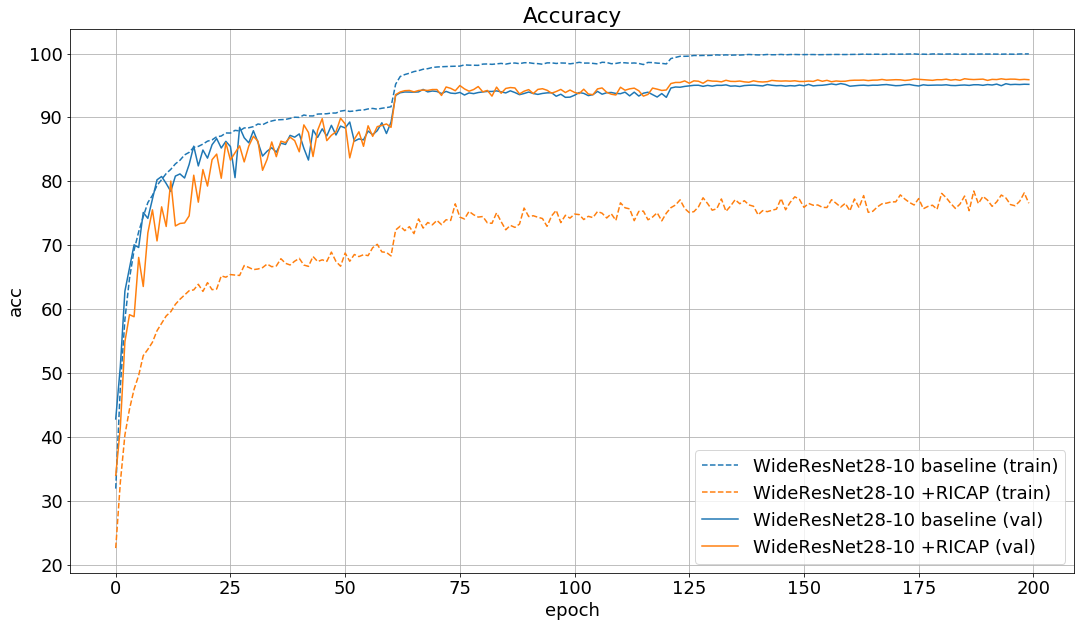
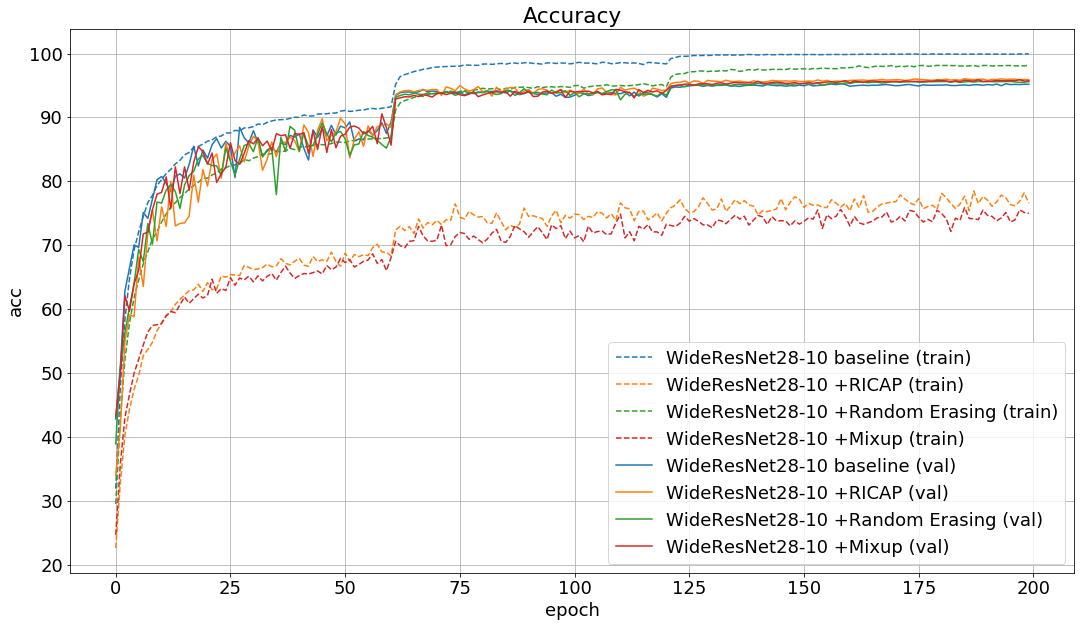
add Random Erasing and Mixup

diff --git a/train.py b/train.py
@@ -25,11 +25,20 @@ def parse_args():
     parser.add_argument('--dataset', default='cifar10',
                         choices=['cifar10', 'cifar100'],
                         help='dataset name')
-    parser.add_argument('--ricap', default=False, type=str2bool,
-                        help='use RICAP')
-    parser.add_argument('--beta', default=0.3, type=float)
     parser.add_argument('--depth', default=28, type=int)
     parser.add_argument('--width', default=10, type=int)
+    parser.add_argument('--ricap', default=False, type=str2bool,
+                        help='use RICAP')
+    parser.add_argument('--ricap-beta', default=0.3, type=float)
+    parser.add_argument('--random-erase', default=False, type=str2bool,
+                        help='use Random Erasing')
+    parser.add_argument('--random-erase-prob', default=0.5, type=float)
+    parser.add_argument('--random-erase-sl', default=0.02, type=float)
+    parser.add_argument('--random-erase-sh', default=0.4, type=float)
+    parser.add_argument('--random-erase-r', default=0.3, type=float)
+    parser.add_argument('--mixup', default=False, type=str2bool,
+                        help='use Mixup')
+    parser.add_argument('--mixup-alpha', default=1.0, type=float)
 
     args = parser.parse_args()
 
@@ -47,8 +56,8 @@ def train(args, train_loader, model, criterion, optimizer, epoch, scheduler=None
         if args.ricap:
             I_x, I_y = input.size()[2:]
 
-            w = int(np.round(I_x * np.random.beta(args.beta, args.beta)))
-            h = int(np.round(I_y * np.random.beta(args.beta, args.beta)))
+            w = int(np.round(I_x * np.random.beta(args.ricap_beta, args.ricap_beta)))
+            h = int(np.round(I_y * np.random.beta(args.ricap_beta, args.ricap_beta)))
             w_ = [w, I_x - w, w, I_x - w]
             h_ = [h, h, I_y - h, I_y - h]
 
@@ -72,7 +81,25 @@ def train(args, train_loader, model, criterion, optimizer, epoch, scheduler=None
             output = model(patched_images)
             loss = sum([W_[k] * criterion(output, c_[k]) for k in range(4)])
 
-            acc1 = sum([W_[k] * accuracy(output, c_[k])[0] for k in range(4)])
+            acc = sum([W_[k] * accuracy(output, c_[k])[0] for k in range(4)])
+
+        elif args.mixup:
+            l = np.random.beta(args.mixup_alpha, args.mixup_alpha)
+
+            idx = torch.randperm(input.size(0))
+            input_a, input_b = input, input[idx]
+            target_a, target_b = target, target[idx]
+
+            mixed_input = l * input_a + (1 - l) * input_b
+
+            target_a = target_a.cuda()
+            target_b = target_b.cuda()
+            mixed_input = mixed_input.cuda()
+
+            output = model(mixed_input)
+            loss = l * criterion(output, target_a) + (1 - l) * criterion(output, target_b)
+
+            acc = l * accuracy(output, target_a)[0] + (1 - l) * accuracy(output, target_b)[0]
 
         else:
             input = input.cuda()
@@ -81,10 +108,10 @@ def train(args, train_loader, model, criterion, optimizer, epoch, scheduler=None
             output = model(input)
             loss = criterion(output, target)
 
-            acc1, _ = accuracy(output, target, topk=(1, 5))
+            acc = accuracy(output, target)[0]
 
         losses.update(loss.item(), input.size(0))
-        scores.update(acc1.item(), input.size(0))
+        scores.update(acc.item(), input.size(0))
 
         # compute gradient and do optimizing step
         optimizer.zero_grad()
@@ -131,10 +158,13 @@ def main():
     args = parse_args()
 
     if args.name is None:
+        args.name = '%s_WideResNet%s-%s' %(args.dataset, args.depth, args.width)
         if args.ricap:
-            args.name = '%s_WideResNet_%sx%s_wRICAP' %(args.dataset, args.depth, args.width)
-        else:
-            args.name = '%s_WideResNet_%sx%s_woRICAP' %(args.dataset, args.depth, args.width)
+            args.name += '_wRICAP'
+        if args.random_erase:
+            args.name += '_wRandomErasing'
+        if args.mixup:
+            args.name += '_wMixup'
 
     if not os.path.exists('models/%s' %args.name):
         os.makedirs('models/%s' %args.name)
@@ -156,13 +186,24 @@ def main():
 
     # data loading code
     if args.dataset == 'cifar10':
-        transform_train = transforms.Compose([
-            transforms.RandomCrop(32, padding=4),
-            transforms.RandomHorizontalFlip(),
-            transforms.ToTensor(),
-            transforms.Normalize((0.4914, 0.4822, 0.4465),
-                                 (0.2023, 0.1994, 0.2010)),
-        ])
+        if args.random_erase:
+            transform_train = transforms.Compose([
+                transforms.RandomCrop(32, padding=4),
+                transforms.RandomHorizontalFlip(),
+                RandomErase(args.random_erase_prob, args.random_erase_sl,
+                            args.random_erase_sh, args.random_erase_r),
+                transforms.ToTensor(),
+                transforms.Normalize((0.4914, 0.4822, 0.4465),
+                                     (0.2023, 0.1994, 0.2010)),
+            ])
+        else:
+            transform_train = transforms.Compose([
+                transforms.RandomCrop(32, padding=4),
+                transforms.RandomHorizontalFlip(),
+                transforms.ToTensor(),
+                transforms.Normalize((0.4914, 0.4822, 0.4465),
+                                     (0.2023, 0.1994, 0.2010)),
+            ])
 
         transform_test = transforms.Compose([
             transforms.ToTensor(),
@@ -192,14 +233,27 @@ def main():
             shuffle=False,
             num_workers=8)
 
+        num_classes = 10
+
     elif args.dataset == 'cifar100':
-        transform_train = transforms.Compose([
-            transforms.RandomCrop(32, padding=4),
-            transforms.RandomHorizontalFlip(),
-            transforms.ToTensor(),
-            transforms.Normalize((0.4914, 0.4822, 0.4465),
-                                 (0.2023, 0.1994, 0.2010)),
-        ])
+        if args.random_erase:
+            transform_train = transforms.Compose([
+                transforms.RandomCrop(32, padding=4),
+                transforms.RandomHorizontalFlip(),
+                RandomErase(args.random_erase_prob, args.random_erase_sl,
+                            args.random_erase_sh, args.random_erase_r),
+                transforms.ToTensor(),
+                transforms.Normalize((0.4914, 0.4822, 0.4465),
+                                     (0.2023, 0.1994, 0.2010)),
+            ])
+        else:
+            transform_train = transforms.Compose([
+                transforms.RandomCrop(32, padding=4),
+                transforms.RandomHorizontalFlip(),
+                transforms.ToTensor(),
+                transforms.Normalize((0.4914, 0.4822, 0.4465),
+                                     (0.2023, 0.1994, 0.2010)),
+            ])
 
         transform_test = transforms.Compose([
             transforms.ToTensor(),
@@ -229,8 +283,10 @@ def main():
             shuffle=False,
             num_workers=8)
 
+        num_classes = 100
+
     # create model
-    model = WideResNet(args.depth, args.width)
+    model = WideResNet(args.depth, args.width, num_classes=num_classes)
     model = model.cuda()
 
     optimizer = optim.SGD(filter(lambda p: p.requires_grad, model.parameters()), lr=0.1,
@@ -271,7 +327,7 @@ def main():
             best_acc = val_log['acc']
             print("=> saved best model")
 
-    print("best val_acc: %f" %best_acc)
+    print("best val_acc: %f" %best_acc)            
 
 
 if __name__ == '__main__':

diff --git a/utils.py b/utils.py
@@ -1,3 +1,8 @@
+import random
+import math
+from PIL import Image
+import numpy as np
+
 import torch
 
 
@@ -61,3 +66,35 @@ def accuracy(output, target, topk=(1,)):
             correct_k = correct[:k].view(-1).float().sum(0, keepdim=True)
             res.append(correct_k.mul_(100.0 / batch_size))
         return res
+
+
+class RandomErase(object):
+    def __init__(self, prob, sl, sh, r):
+        self.prob = prob
+        self.sl = sl
+        self.sh = sh
+        self.r = r
+
+    def __call__(self, img):
+        if random.uniform(0, 1) < self.prob:
+            return img
+
+        while True:
+            area = random.uniform(self.sl, self.sh) * img.size[0] * img.size[1]
+            ratio = random.uniform(self.r, 1/self.r)
+
+            h = int(round(math.sqrt(area * ratio)))
+            w = int(round(math.sqrt(area / ratio)))
+
+            if h < img.size[0] and w < img.size[1]:
+                x = random.randint(0, img.size[0] - h)
+                y = random.randint(0, img.size[1] - w)
+                img = np.array(img)
+                if len(img.shape) == 3:
+                    for c in range(img.shape[2]):
+                        img[x:x+h, y:y+w, c] = random.uniform(0, 1)
+                else:
+                    img[x:x+h, y:y+w] = random.uniform(0, 1)
+                img = Image.fromarray(img)
+
+                return img

diff --git a/README.md b/README.md
@@ -17,14 +17,26 @@ WideResNet28-10 +RICAP on CIFAR-10:
 ```
 python train.py --dataset cifar10 --ricap True
 ```
+WideResNet28-10 +Random Erasing on CIFAR-10:
+```
+python train.py --dataset cifar10 --random-erase True
+```
+WideResNet28-10 +Mixup on CIFAR-10:
+```
+python train.py --dataset cifar10 --mixup True
+```
 
 ## Results
-| Model                                    |   Error rate (%)  |
-|:-----------------------------------------|:-----------------:|
-| WideResNet28-10 baseline                 |              4.70 |
-| WideResNet28-10 +RICAP                   |              3.94 |
-| WideResNet28-10 baseline (original paper)|              3.89 |
-| WideResNet28-10 +RICAP (original paper)  |              2.85 |
+| Model                                           |   Error rate (%)  | Loss |
+|:------------------------------------------------|:-----------------:|:----:|
+| WideResNet28-10 baseline                        |              4.70 | 0.193|
+| WideResNet28-10 +RICAP                          |              3.94 | 0.162|
+| WideResNet28-10 +Random Erasing                 |              4.36 | 0.163|
+| WideResNet28-10 +Mixup                          |              4.09 | 0.232|
+| WideResNet28-10 baseline (original paper)       |              3.89 |     -|
+| WideResNet28-10 +RICAP (original paper)         |              2.85 |     -|
+| WideResNet28-10 +Random Erasing (original paper)|              4.65 |     -|
+| WideResNet28-10 +Mixup (original paper)         |              3.02 |     -|
 
 Learning curves of loss and accuracy.
 
